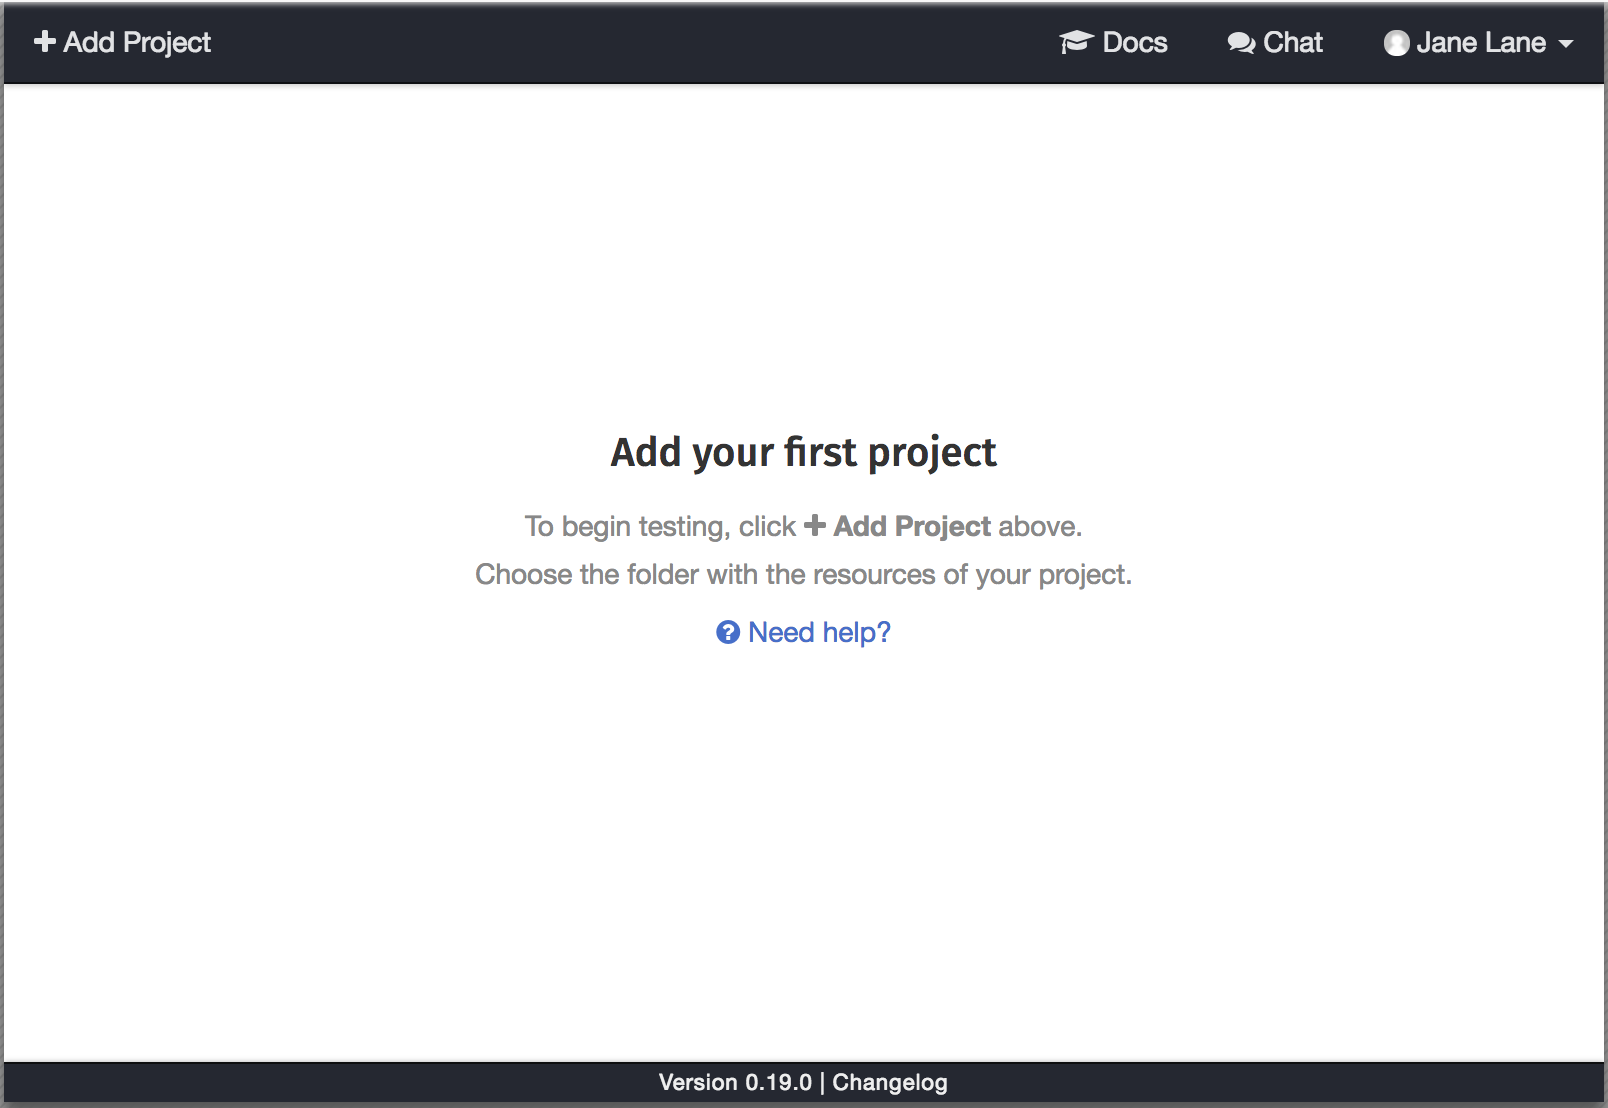
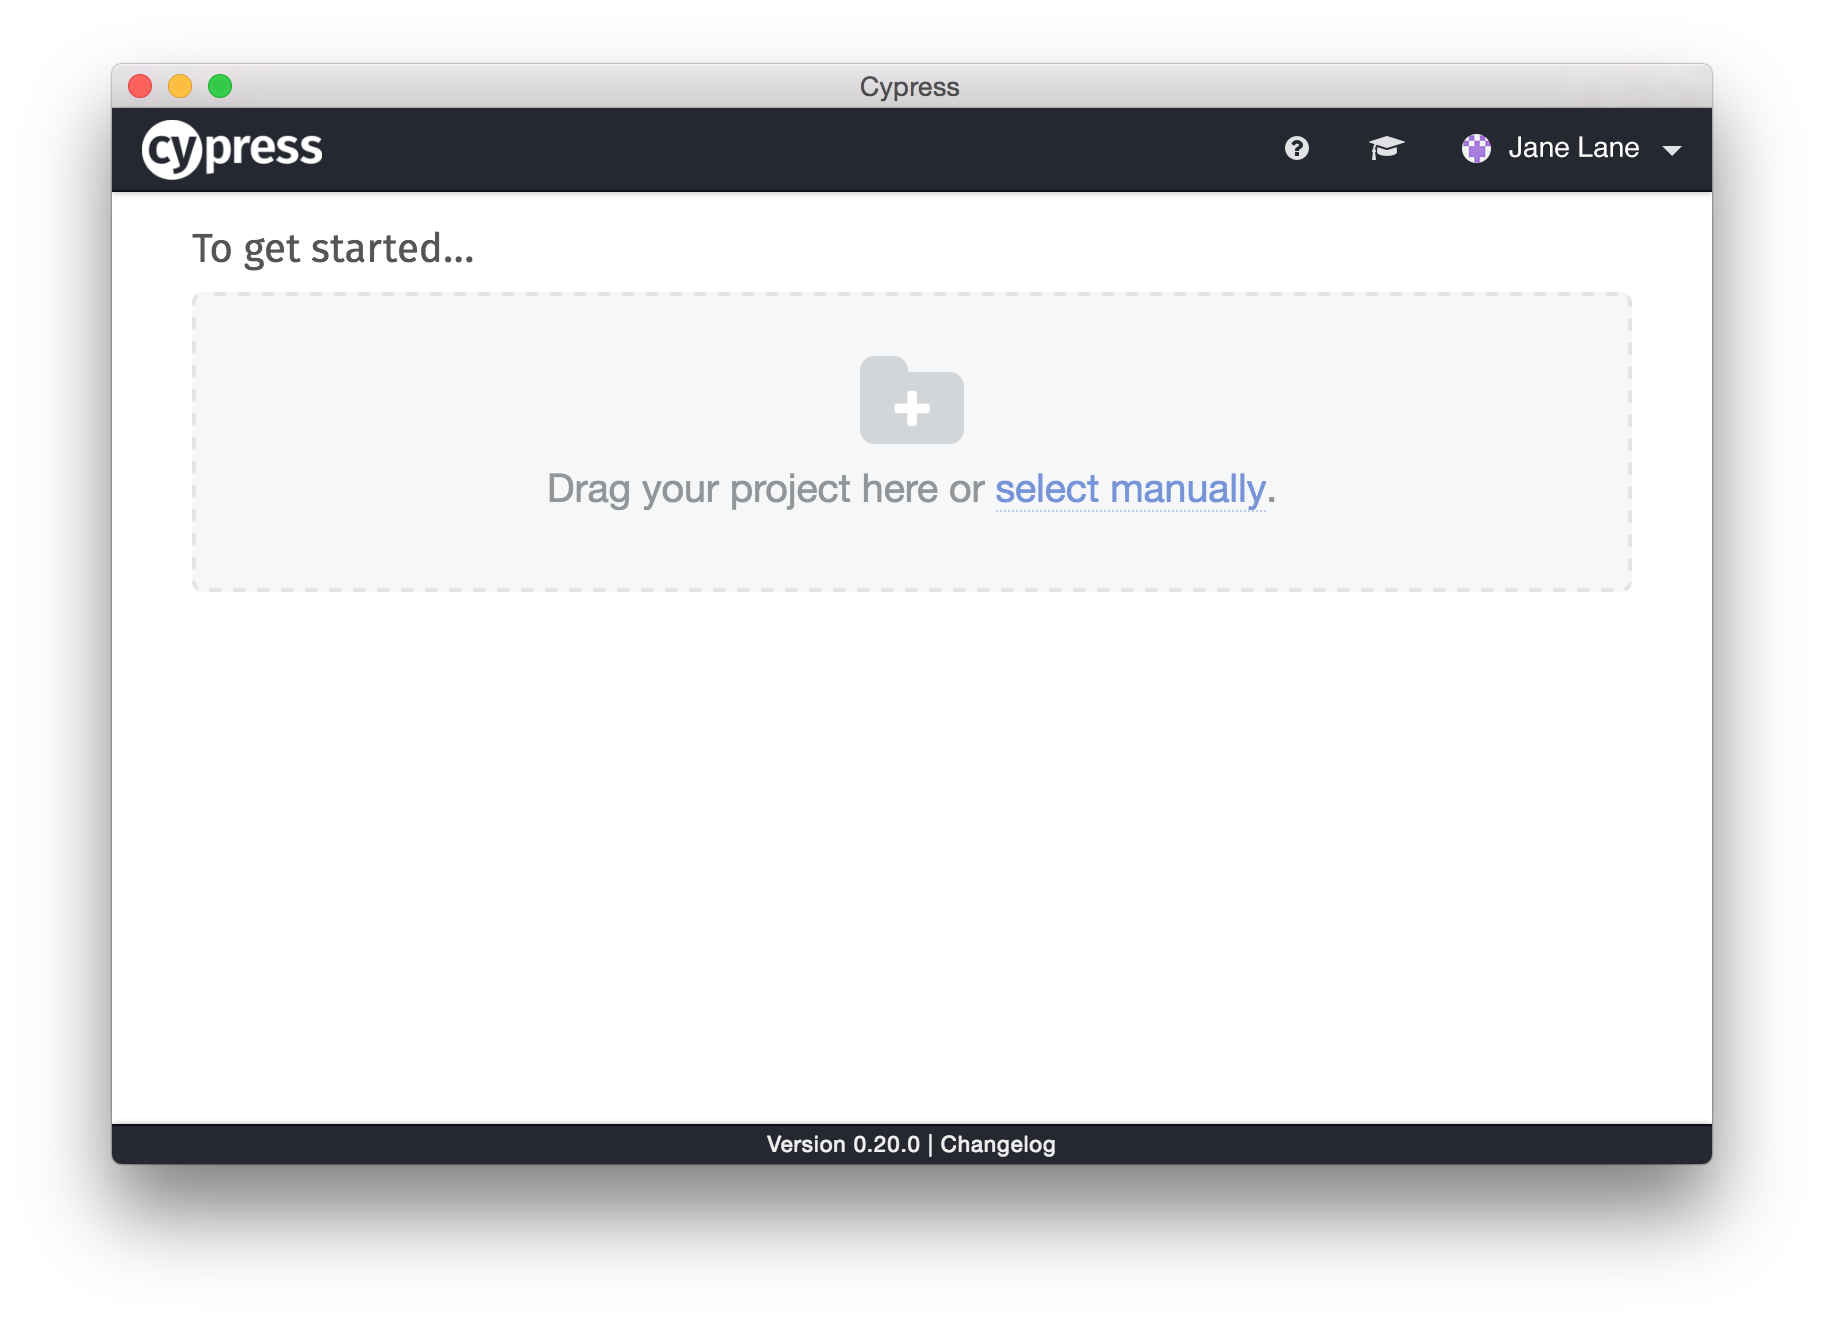
docs: replace outdated gif with boring photo of empty projects desktop

diff --git a/docs/source/guides/getting-started/writing-your-first-test.md b/docs/source/guides/getting-started/writing-your-first-test.md
@@ -29,6 +29,8 @@ mkdir playground
 
 Great! Now let's add this folder to Cypress by dragging the folder into the Desktop or clicking 'select manually'.
 
+{% img no-border /img/guides/add-your-first-project-in-guid.png "Adding an empty folder to Cypress Desktop" %}
+
 Once you've added this folder, you should see a message explaining that we've seeded your empty project with a few folders and an `example_spec.js` file.
 
 {% note info %}
